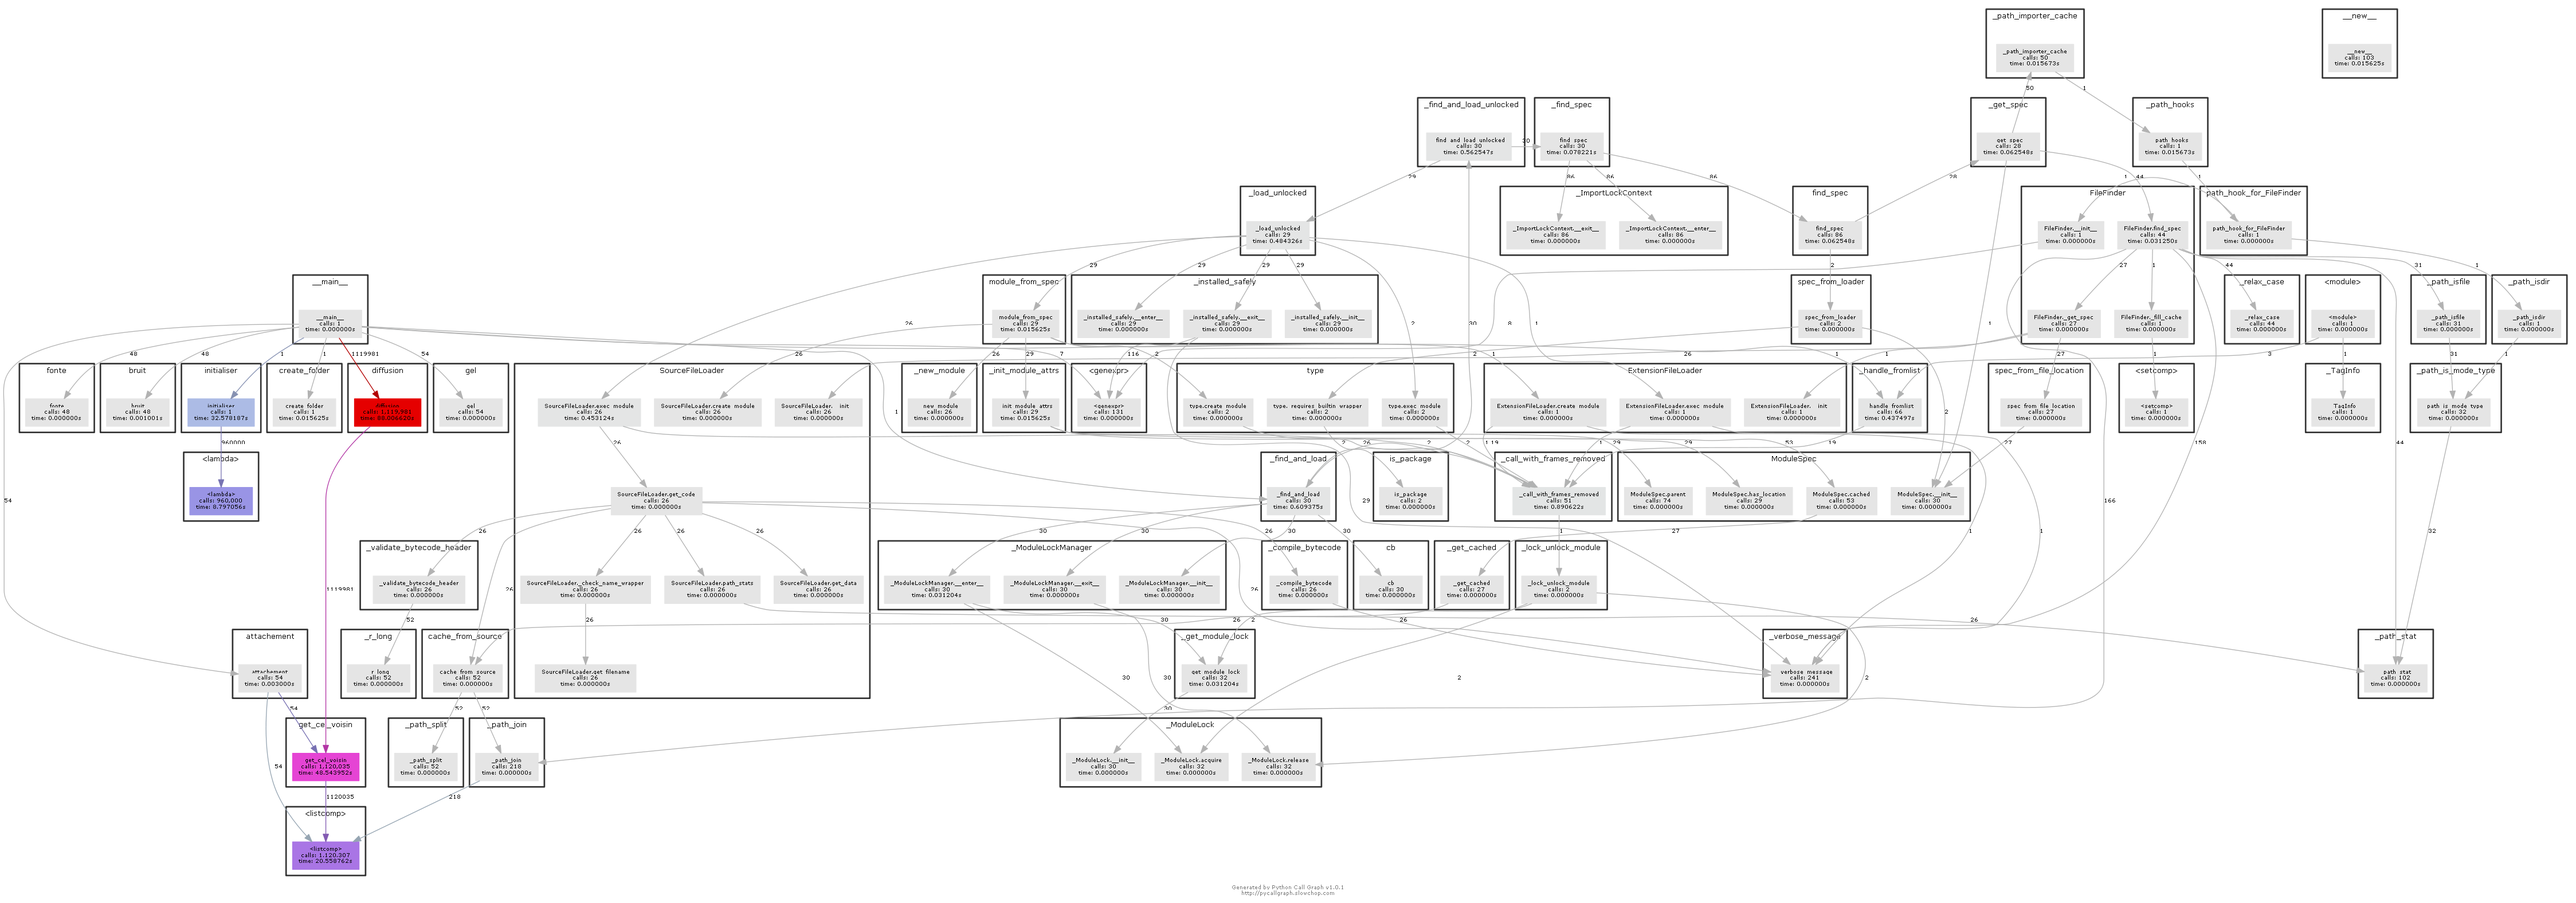
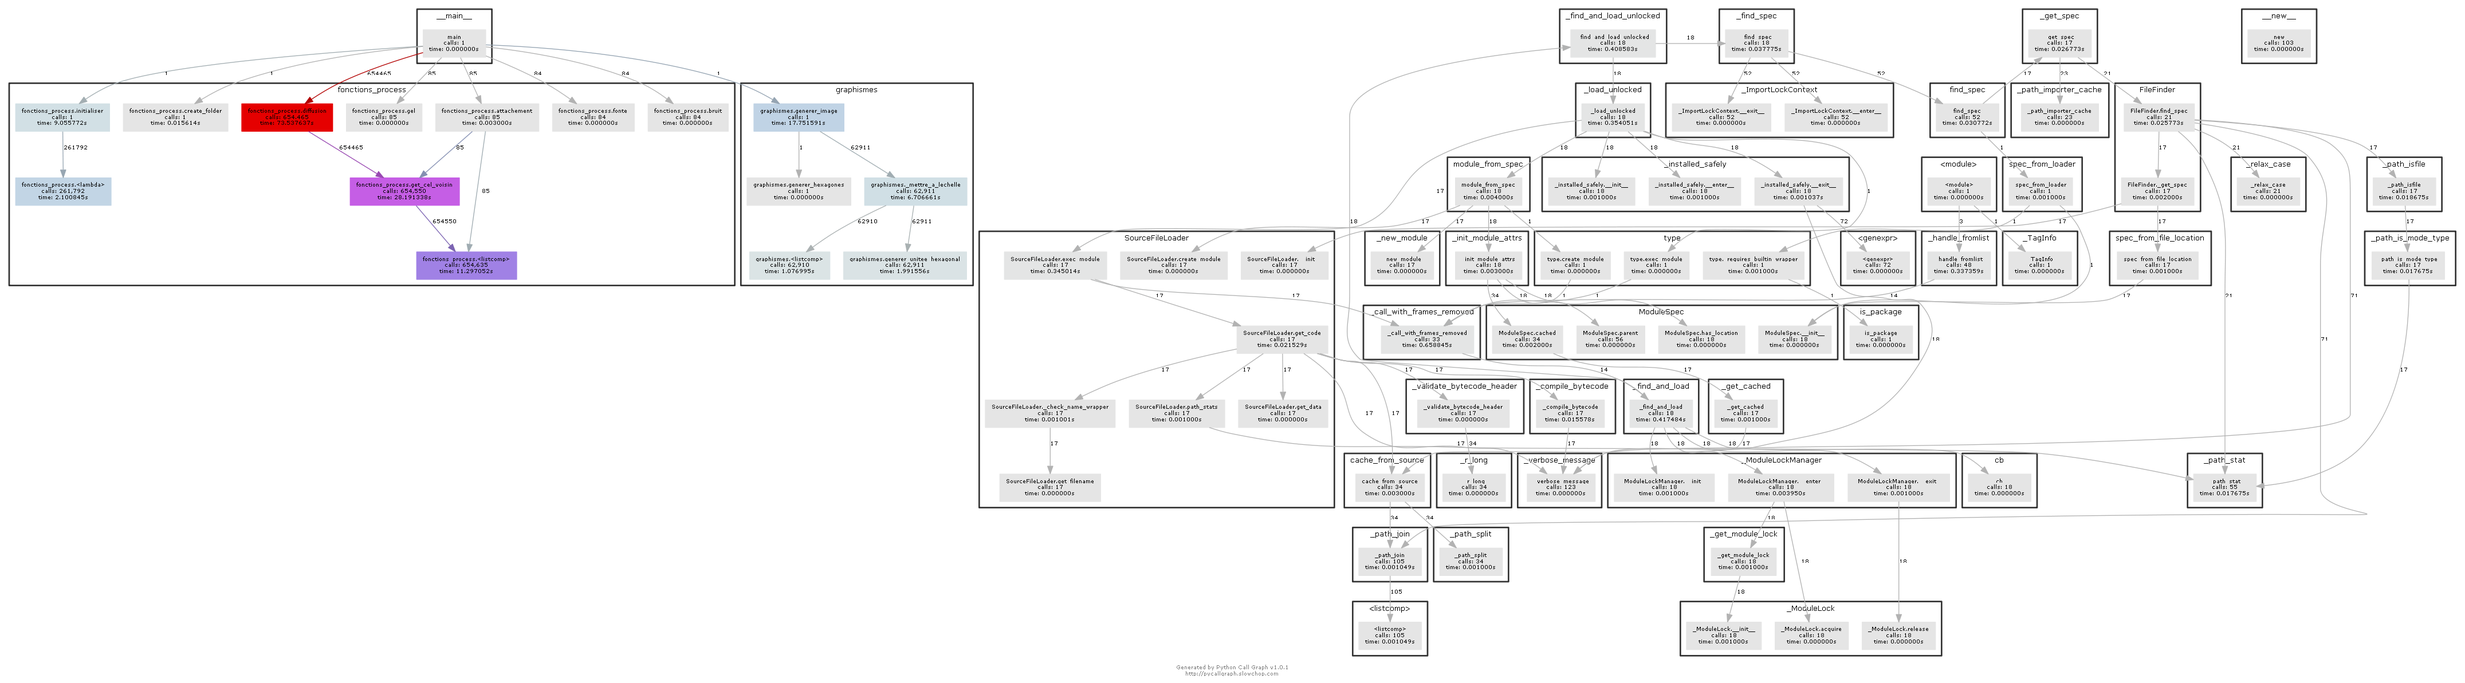
Encore pas mal de choses à faire avec la séparation en fichiers

diff --git a/main.py b/main.py
@@ -1,6 +1,6 @@
 # coding: utf-8
-# from pycallgraph import PyCallGraph
-# from pycallgraph.output import GraphvizOutput
+from pycallgraph import PyCallGraph
+from pycallgraph.output import GraphvizOutput
 from copy import deepcopy as dc
 from os.path import join
 
@@ -12,7 +12,7 @@ voisins = {}
 cristal = set()
 frontiere = set()
 
-if __name__ == '__main__':
+with PyCallGraph(output=GraphvizOutput()):
 
     initialiser(tableau_cellules, voisins, cristal, frontiere)
 

diff --git a/constantes.py b/constantes.py
@@ -11,7 +11,7 @@ W_TABLEAU = int(W / (2 * T_HEXAGONES)) + 2
 H_TABLEAU += H_TABLEAU % 2
 W_TABLEAU += W_TABLEAU % 2
 
-ITERATIONS = 3300
+ITERATIONS = 100
 
 KAPPA = 0.8
 BETA  = 1.7
